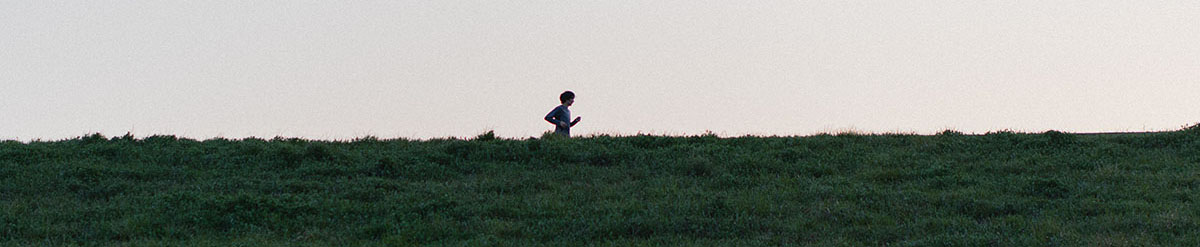
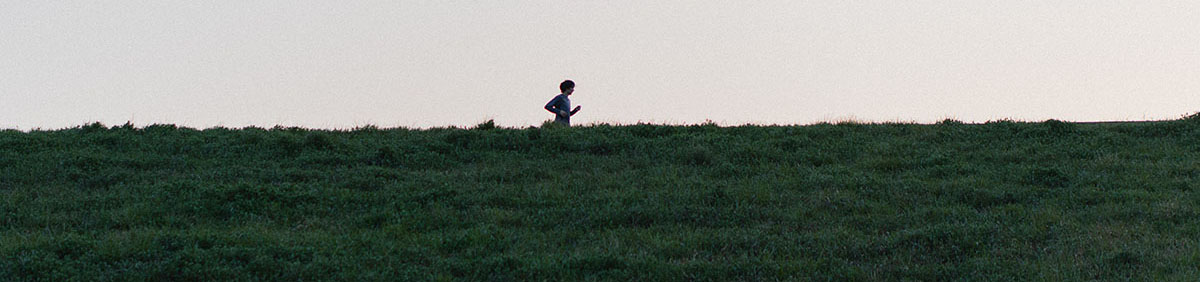
add header background img and edit readme

Changed region(s): [[0.0, 0.2834, 1.0, 1.0]]

diff --git a/src/components/Dataview.tsx b/src/components/Dataview.tsx
@@ -1,43 +1,38 @@
-
-import { useState } from 'react';
-import CalendarView from './CalenderView';
-import HeatMapView from './HeatMapView';
-import { MyDatePicker } from './MyDatePicker';
-import { Pages } from './types';
-import DailyView from './DailyView';
+import { useState } from "react";
+import CalendarView from "./CalenderView";
+import HeatMapView from "./HeatMapView";
+import { MyDatePicker } from "./MyDatePicker";
+import { Pages } from "./types";
+import DailyView from "./DailyView";
 
 export const DataView = (props: { type: string }) => {
-  const [date, setDate] = useState(new Date);
+  const [date, setDate] = useState(new Date());
   let viewValue = "";
 
   let viewer = decideViewer(props.type, date);
 
   const setValue = (pickerValue: any): void => {
-    viewValue = pickerValue;
-    setDate(pickerValue.toDate());
+    if (null != pickerValue) {
+      viewValue = pickerValue;
+      setDate(pickerValue.toDate());
+    }
   };
 
   return (
-    <div className='dataview'>
-      <MyDatePicker
-        pickerType={props.type}
-        onValueChange={setValue}
-      />
+    <div className="dataview">
+      <MyDatePicker pickerType={props.type} onValueChange={setValue} />
       {viewer}
     </div>
   );
 };
 
-const decideViewer = (type: string, date:Date) => {
+const decideViewer = (type: string, date: Date) => {
   if (type === Pages.dataview.dailyView) {
-    if (date == undefined ){
-      return <DailyView date={new Date()}/>
+    if (date == undefined) {
+      return <DailyView date={new Date()} />;
+    } else {
+      return <DailyView date={date} />;
     }
-    else
-    {
-      return <DailyView date={date}/>
-    }
-
   }
 
   if (type === Pages.dataview.weeklyView) {
@@ -45,12 +40,12 @@ const decideViewer = (type: string, date:Date) => {
   }
 
   if (type === Pages.dataview.monthlyView) {
-    return <CalendarView />
+    return <CalendarView />;
   }
 
   if (type === Pages.dataview.yearlyView) {
-    return <HeatMapView />
+    return <HeatMapView />;
   }
-}
+};
 
 export default DataView;

diff --git a/src/App.css b/src/App.css
@@ -30,7 +30,7 @@
   background-image: url("/images/headerBg.jpg");
   background-size: cover;
   border-radius: 10px;
-  width: 1200px;
+  width: 100%;
   display: flex;
   flex-direction: row;
   align-items: center;
